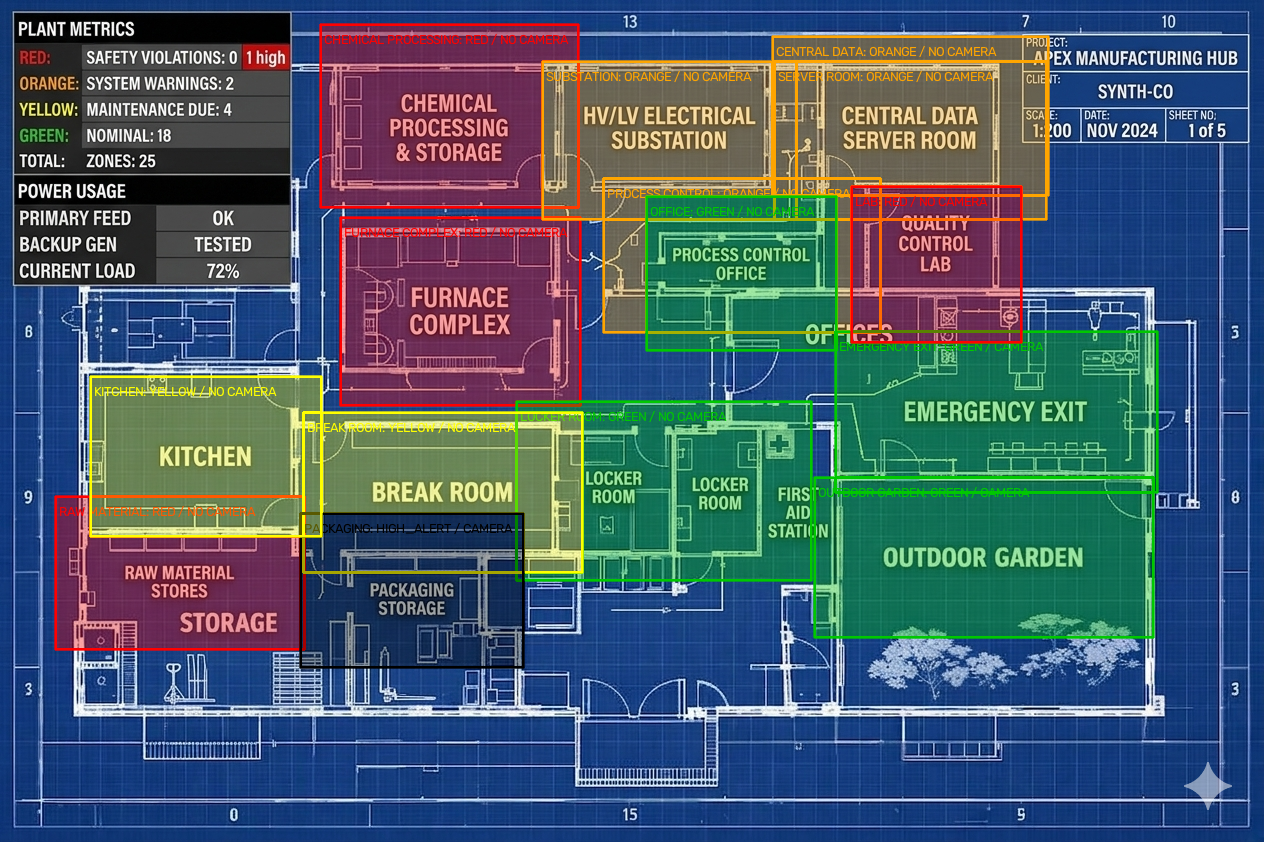
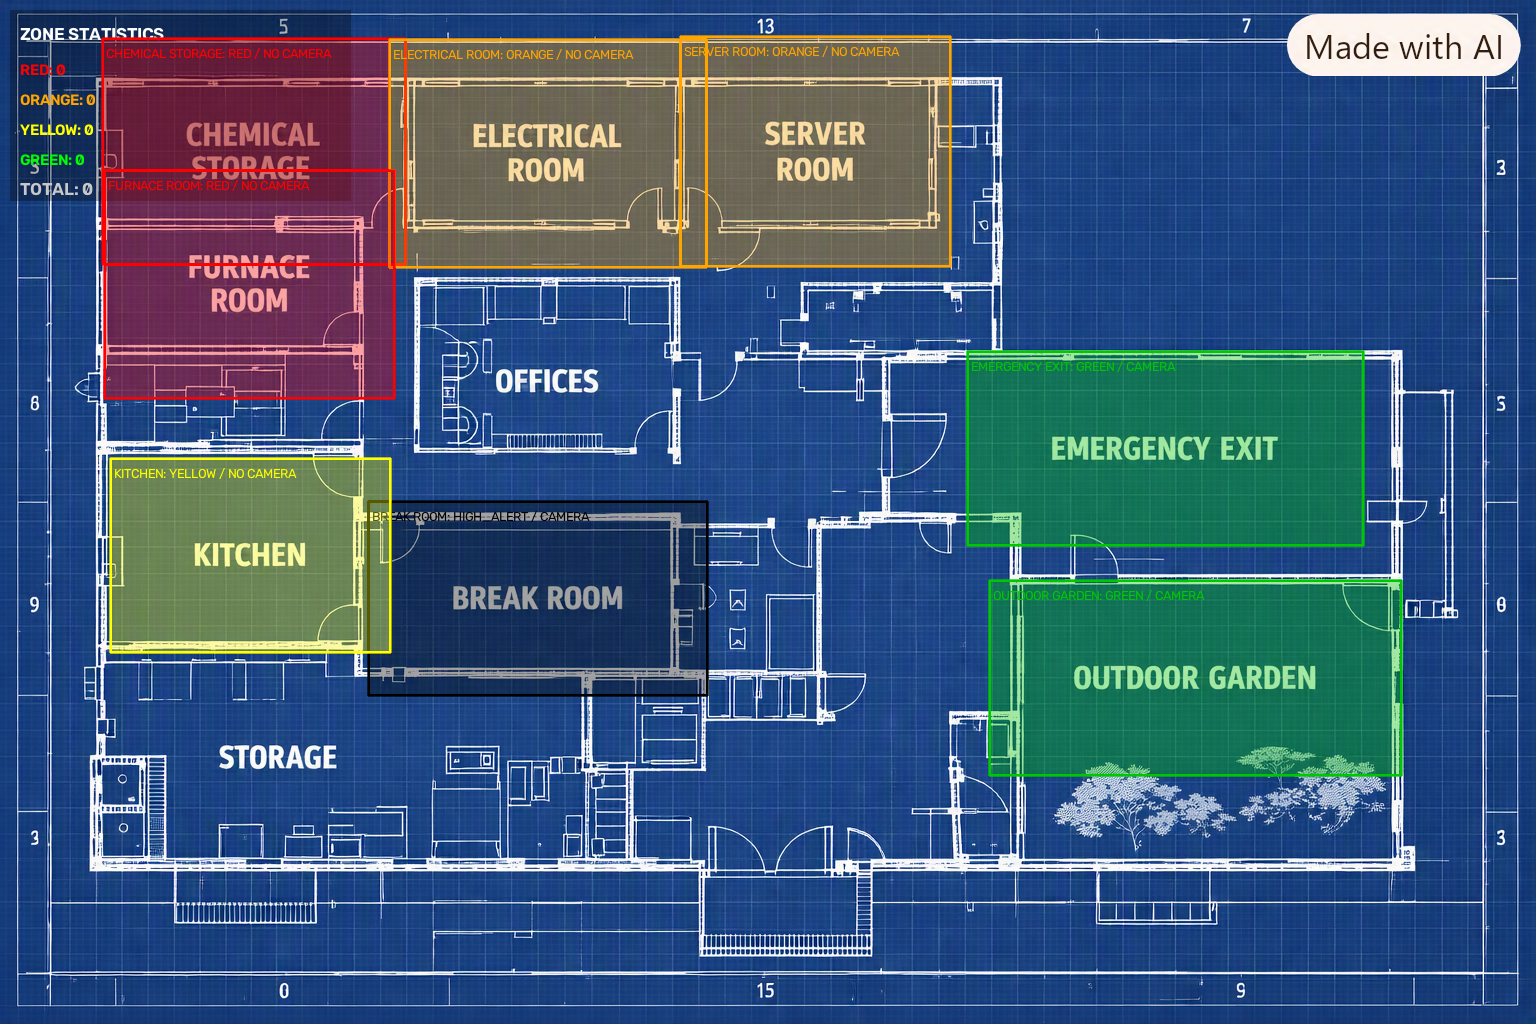
Prepare Factory Zone Detector for Render

diff --git a/api.py b/api.py
@@ -11,9 +11,15 @@ import html
 import time
 import subprocess
 import sys
+import re
+import os
+from urllib.parse import urlparse
+from urllib.request import Request as UrlRequest, urlopen
+from urllib.error import URLError
 from pathlib import Path
 from fastapi import FastAPI, File, HTTPException, UploadFile, Request
 from fastapi.responses import FileResponse, HTMLResponse, RedirectResponse
+from fastapi.middleware.cors import CORSMiddleware
 from pydantic import BaseModel, HttpUrl
 
 from detect_zones import process_blueprint
@@ -28,6 +34,17 @@ run_lock = threading.Lock()
 camera_process: subprocess.Popen | None = None
 
 app = FastAPI(title="Factory Zone Detector API", version="1.0.0")
+
+# Enable CORS for website integration
+app.add_middleware(
+    CORSMiddleware,
+    allow_origins=[origin.strip() for origin in os.getenv("CORS_ORIGINS", "*").split(",")],
+    # The detector uses no browser cookies. Keeping this false also permits a
+    # local development wildcard while production uses CORS_ORIGINS.
+    allow_credentials=False,
+    allow_methods=["*"],
+    allow_headers=["*"],
+)
 
 # Room data belongs to an uploaded blueprint.  Do not expose stale rooms when
 # this API has no uploaded-blueprint state.
@@ -70,12 +87,27 @@ def control_page():
     map_html = (f'<h2>Current coloured map</h2><img id="map" src="/map?t={time.time()}" '
                 'style="width:100%;border:1px solid #999"><p id="map-note">Map refreshes every 3 seconds while cameras run.</p>') \
                if STATE_FILE.exists() and (OUTPUT / "colored_output.png").exists() else ""
-    return f'''<!doctype html><title>Factory Fire Monitor</title><style>body{{font-family:Arial;max-width:760px;margin:30px auto}}label,input,button{{display:block;width:100%;box-sizing:border-box;margin:9px 0}}label{{font-weight:bold}}input{{padding:9px}}button{{padding:10px;background:#b91c1c;color:white;border:0;border-radius:4px;font-weight:bold}}</style>
+    camera_cards = "".join(_camera_card(name, room.get("camera")) for name, room in ROOMS.items() if room.get("camera"))
+    preview_html = f"<h2>Live camera previews</h2><div class=\"cameras\">{camera_cards}</div>" if camera_cards else ""
+    return f'''<!doctype html><title>Factory Fire Monitor</title><style>body{{font-family:Arial;max-width:960px;margin:30px auto}}label,input,button{{display:block;width:100%;box-sizing:border-box;margin:9px 0}}label{{font-weight:bold}}input{{padding:9px}}button{{padding:10px;background:#b91c1c;color:white;border:0;border-radius:4px;font-weight:bold}}.cameras{{display:grid;grid-template-columns:repeat(auto-fit,minmax(300px,1fr));gap:14px}}.camera{{border:1px solid #999;padding:8px}}.camera h3{{margin:0 0 7px}}iframe,video{{width:100%;height:220px;border:0}}</style>
     <h1>Factory Fire Monitor</h1><p>1. Upload blueprint. 2. Paste one link for each room. 3. Start all cameras.</p>
     <form action="/page/blueprint" method="post" enctype="multipart/form-data"><input type="file" name="file" accept=".png,.jpg,.jpeg" required><button>1. Upload Blueprint</button></form>
-    {map_html}<h2>Camera links</h2><form action="/page/cameras" method="post">{fields}<button>2. Save Cameras and Start Detection</button></form>
+    {map_html}{preview_html}<h2>Camera links</h2><form action="/page/cameras" method="post">{fields}<button>2. Save Cameras and Start Detection</button></form>
     <form action="/page/clear-alerts" method="post"><button type="submit">Clear Alerts (restore blueprint zones)</button></form><form action="/page/reset" method="post"><button type="submit">Clear Blueprint and Room Data</button></form><p><a href="/map?t=1">Open current colored map</a> · <a href="/zones">Zone data (JSON)</a></p>
     <script>setInterval(() => {{ const map = document.getElementById('map'); if (map) map.src = '/map?t=' + Date.now(); }}, 3000);</script>'''
+
+
+def _camera_card(name: str, source: str) -> str:
+    """Return a browser-safe preview for sources browsers can play directly."""
+    escaped_name, escaped_source = html.escape(name), html.escape(source, quote=True)
+    video_id = re.search(r"(?:youtu\.be/|youtube\.com/(?:shorts/|watch\?v=))([A-Za-z0-9_-]{11})", source)
+    if video_id:
+        embed = f'<iframe src="https://www.youtube.com/embed/{video_id.group(1)}" title="{escaped_name}" allowfullscreen></iframe>'
+    elif source.lower().endswith((".mp4", ".webm", ".ogg")) or source.startswith(("http://", "https://")):
+        embed = f'<video controls muted autoplay src="{escaped_source}">Browser cannot play this video.</video>'
+    else:
+        embed = '<p>Preview unavailable for RTSP. Detection still runs in the desktop detector.</p>'
+    return f'<section class="camera"><h3>{escaped_name}</h3>{embed}</section>'
 
 
 @app.post("/page/blueprint")
@@ -246,3 +278,184 @@ def current_map():
         raise HTTPException(404, "No map yet. Upload a blueprint first.")
     # no-store avoids browsers showing an old map after an alert redraw.
     return FileResponse(map_file, media_type="image/png", headers={"Cache-Control": "no-store, max-age=0", "Pragma": "no-cache"})
+
+
+# ============================================================================
+# New API Endpoints for Website Integration
+# ============================================================================
+
+class CameraData(BaseModel):
+    camera_name: str
+    location: str = ""
+    cloud_url: str = ""
+
+
+class BlueprintUploadResponse(BaseModel):
+    success: bool
+    rooms: dict = {}
+    statistics: dict = {}
+    message: str = ""
+
+
+class BlueprintUrlInput(BaseModel):
+    url: str
+
+
+def process_blueprint_target(target: Path) -> dict:
+    """Populate shared room state and render a new map for a local blueprint."""
+    detected = process_blueprint(str(target))
+    ROOMS.clear()
+    ROOMS.update(detected)
+    save_rooms()
+    OUTPUT.mkdir(exist_ok=True)
+    STATE_FILE.write_text(json.dumps({"blueprint": str(target)}), encoding="utf-8")
+    result = redraw()
+    return {
+        "success": True,
+        "rooms": result.get("rooms", {}),
+        "statistics": result.get("statistics", {}),
+        "message": f"Blueprint processed successfully. Detected {len(detected)} rooms.",
+    }
+
+
+@app.post("/api/blueprint")
+async def api_upload_blueprint(file: UploadFile = File(...)):
+    """Upload blueprint for website integration and return detected rooms."""
+    try:
+        suffix = Path(file.filename or "blueprint.png").suffix.lower()
+        if suffix not in {".png", ".jpg", ".jpeg"}:
+            raise HTTPException(400, "Blueprint must be a PNG or JPEG image.")
+        
+        target = Path("input") / f"uploaded_blueprint{suffix}"
+        target.parent.mkdir(exist_ok=True)
+        target.write_bytes(await file.read())
+        
+        return process_blueprint_target(target)
+    except RuntimeError as error:
+        raise HTTPException(500, f"Blueprint processing failed: {str(error)}")
+    except Exception as error:
+        raise HTTPException(500, f"Unexpected error: {str(error)}")
+
+
+@app.post("/api/blueprint-url")
+def api_upload_blueprint_url(payload: BlueprintUrlInput):
+    """Download a public image URL, process it, and return rooms plus map data."""
+    parsed = urlparse(payload.url.strip())
+    if parsed.scheme not in {"http", "https"} or not parsed.netloc:
+        raise HTTPException(400, "Blueprint URL must be a public http:// or https:// image URL.")
+    try:
+        request = UrlRequest(payload.url, headers={"User-Agent": "Agni-Hazemap/1.0"})
+        with urlopen(request, timeout=20) as response:
+            content_type = response.headers.get_content_type()
+            if content_type not in {"image/png", "image/jpeg"}:
+                raise HTTPException(400, "Blueprint URL must return a PNG or JPEG image, not a web page.")
+            image = response.read(15 * 1024 * 1024 + 1)
+        if len(image) > 15 * 1024 * 1024:
+            raise HTTPException(400, "Blueprint image must be 15 MB or smaller.")
+        suffix = ".png" if content_type == "image/png" else ".jpg"
+        target = Path("input") / f"url_blueprint{suffix}"
+        target.parent.mkdir(exist_ok=True)
+        target.write_bytes(image)
+        return process_blueprint_target(target)
+    except HTTPException:
+        raise
+    except (URLError, TimeoutError) as error:
+        raise HTTPException(400, f"Could not download blueprint URL: {error}") from error
+    except RuntimeError as error:
+        raise HTTPException(500, f"Blueprint processing failed: {error}") from error
+    except Exception as error:
+        raise HTTPException(500, f"Unexpected error: {error}") from error
+
+
+@app.get("/api/rooms")
+def api_get_rooms():
+    """Get formatted rooms data for website display."""
+    if not ROOMS:
+        return {
+            "success": False,
+            "rooms": {},
+            "statistics": {
+                "total": 0,
+                "red": 0,
+                "orange": 0,
+                "yellow": 0,
+                "green": 0,
+                "high_alert": 0
+            },
+            "message": "No blueprint uploaded yet."
+        }
+    
+    stats = {
+        "total": len(ROOMS),
+        "red": sum(1 for r in ROOMS.values() if r.get("zone") == "red"),
+        "orange": sum(1 for r in ROOMS.values() if r.get("zone") == "orange"),
+        "yellow": sum(1 for r in ROOMS.values() if r.get("zone") == "yellow"),
+        "green": sum(1 for r in ROOMS.values() if r.get("zone") == "green"),
+        "high_alert": sum(1 for r in ROOMS.values() if r.get("zone") == "high_alert"),
+    }
+    
+    return {
+        "success": True,
+        "rooms": dict(ROOMS),
+        "statistics": stats,
+        "message": "Rooms data retrieved successfully."
+    }
+
+
+@app.post("/api/cameras")
+def api_add_cameras(cameras: list[CameraData]):
+    """Add multiple cameras for detected rooms."""
+    try:
+        added_count = 0
+        for camera in cameras:
+            # The website records a human-friendly camera name separately from
+            # its room assignment.  Keep camera_name as a backwards-compatible
+            # fallback for existing API callers.
+            room = (camera.location or camera.camera_name).strip().upper()
+            if room not in ROOMS:
+                continue
+            set_camera(room, camera.cloud_url)
+            added_count += 1
+        
+        save_rooms()
+        redraw()
+        return {
+            "success": True,
+            "added": added_count,
+            "message": f"Added {added_count} camera(s) successfully."
+        }
+    except Exception as error:
+        raise HTTPException(500, f"Failed to add cameras: {str(error)}")
+
+
+@app.get("/api/map-image")
+def api_get_map_image():
+    """Get current map image URL for website."""
+    map_file = OUTPUT / "colored_output.png"
+    if not STATE_FILE.exists() or not map_file.exists():
+        return {
+            "success": False,
+            "map_url": None,
+            "message": "No map available. Upload a blueprint first."
+        }
+    
+    # Return the map file path and URL for frontend to fetch
+    return {
+        "success": True,
+        "map_url": f"/map?t={time.time()}",
+        "exists": True,
+        "message": "Map image available."
+    }
+
+
+@app.get("/api/health")
+def api_health():
+    """Check API health and detector status."""
+    return {
+        "ok": True,
+        "detector_running": True,
+        "blueprint_loaded": STATE_FILE.exists() and bool(ROOMS),
+        "rooms_count": len(ROOMS),
+        "monitor_running": bool(camera_process and camera_process.poll() is None),
+        "version": "1.0.0"
+    }

diff --git a/monitor.py b/monitor.py
@@ -1,59 +1,61 @@
-"""End-to-end runner: build map once, then inspect every configured camera."""
+"""Sequential room-camera monitoring using the shared YouTube detector."""
 from __future__ import annotations
+
 import argparse
-from pathlib import Path
-import cv2
-from fire_smoke_detection import FireSmokeDetector, open_camera
+
+from detect_youtube import detect_source
 from map_generator import draw_factory_map
-from rooms import ROOMS 
-from zone_manager import save_rooms, set_camera, update_zone
+from rooms import ROOMS
+from zone_manager import save_rooms, set_camera, set_monitoring, update_zone
 
 
-def monitor_room(name: str, source: str, blueprint: str, confirm_frames: int, show: bool = False) -> None:
-    cap = open_camera(source)
-    if not cap.isOpened():
-        print(f"[{name}] could not open camera: {source}"); return
-    detector, fire_count, smoke_count, alerted = FireSmokeDetector(), 0, 0, False
-    while True:
-        ok, frame = cap.read()
-        if not ok: break  # a supplied video ends here; a live URL can be restarted externally
-        fire, smoke = detector.detect(frame)
-        fire_count = fire_count + 1 if fire else 0
-        smoke_count = smoke_count + 1 if smoke else 0
-        if not alerted and (fire_count >= confirm_frames or smoke_count >= confirm_frames):
-            alerted = True
-            update_zone(name, fire=fire_count >= confirm_frames, smoke=smoke_count >= confirm_frames)
-            save_rooms(); draw_factory_map(blueprint)
-            print(f"[{name}] ALERT: {'FIRE' if fire_count >= confirm_frames else 'SMOKE'}; map updated")
-        if show:
-            preview = frame.copy()
-            cv2.putText(preview, f"{name} - press q for next camera", (20, 35),
-                        cv2.FONT_HERSHEY_SIMPLEX, .8, (0, 255, 0), 2)
-            cv2.imshow(f"Camera: {name}", preview)
-            if cv2.waitKey(1) & 0xFF == ord("q"):
-                break
-    cap.release()
-    if show:
-        cv2.destroyWindow(f"Camera: {name}")
-    print(f"[{name}] camera finished")
+def monitor_room(name: str, source: str, blueprint: str, confirm_frames: int = 10,
+                 show: bool = True) -> None:
+    """Detect one camera; pressing q closes it so monitor_all advances."""
+    set_monitoring(name, True)
+    save_rooms()
+    draw_factory_map(blueprint)
+
+    def on_alert(event: str) -> None:
+        update_zone(name, fire=event == "FIRE", smoke=event == "SMOKE")
+        save_rooms()
+        draw_factory_map(blueprint)
+        print(f"[{name}] HIGH ALERT; map updated", flush=True)
+
+    try:
+        detect_source(source, title=name, confirm_frames=confirm_frames, on_alert=on_alert)
+    finally:
+        set_monitoring(name, False)
+        save_rooms()
+        draw_factory_map(blueprint)
+        print(f"[{name}] camera finished", flush=True)
 
 
-def main():
+def monitor_all(blueprint: str, confirm_frames: int = 10) -> None:
+    """Run all saved cameras one by one; q advances to the next camera."""
+    cameras = [(name, room["camera"]) for name, room in ROOMS.items() if room.get("camera")]
+    if not cameras:
+        print("No configured cameras.", flush=True)
+        return
+    for index, (name, source) in enumerate(cameras, start=1):
+        print(f"[{index}/{len(cameras)}] Opening {name}", flush=True)
+        monitor_room(name, source, blueprint, confirm_frames)
+    print("All configured cameras finished.", flush=True)
+
+
+def main() -> None:
     parser = argparse.ArgumentParser(description=__doc__)
-    parser.add_argument("blueprint", help="Original blueprint image")
-    parser.add_argument("--camera", action="append", default=[], metavar="ROOM=URL",
-                        help="Assign a video/live-feed to a discovered room; repeat for every camera")
+    parser.add_argument("blueprint")
+    parser.add_argument("--camera", action="append", default=[], metavar="ROOM=URL")
     parser.add_argument("--confirm-frames", type=int, default=10)
-    parser.add_argument("--show", action="store_true", help="Show each camera while it is scanned; press q for the next camera")
     args = parser.parse_args()
     for assignment in args.camera:
-        if "=" not in assignment: parser.error("--camera must be ROOM=URL")
-        room, source = assignment.split("=", 1); set_camera(room.upper(), source)
-    save_rooms(); draw_factory_map(args.blueprint)
-    cameras = [(name, data["camera"]) for name, data in ROOMS.items() if data.get("camera")]
-    if not cameras: print("No cameras assigned. Add --camera ROOM=URL."); return
-    for name, source in cameras:
-        monitor_room(name, source, args.blueprint, args.confirm_frames, args.show)
+        if "=" not in assignment:
+            parser.error("--camera must be ROOM=URL")
+        room, source = assignment.split("=", 1)
+        set_camera(room.upper(), source)
+    save_rooms()
+    monitor_all(args.blueprint, args.confirm_frames)
 
 
 if __name__ == "__main__":
